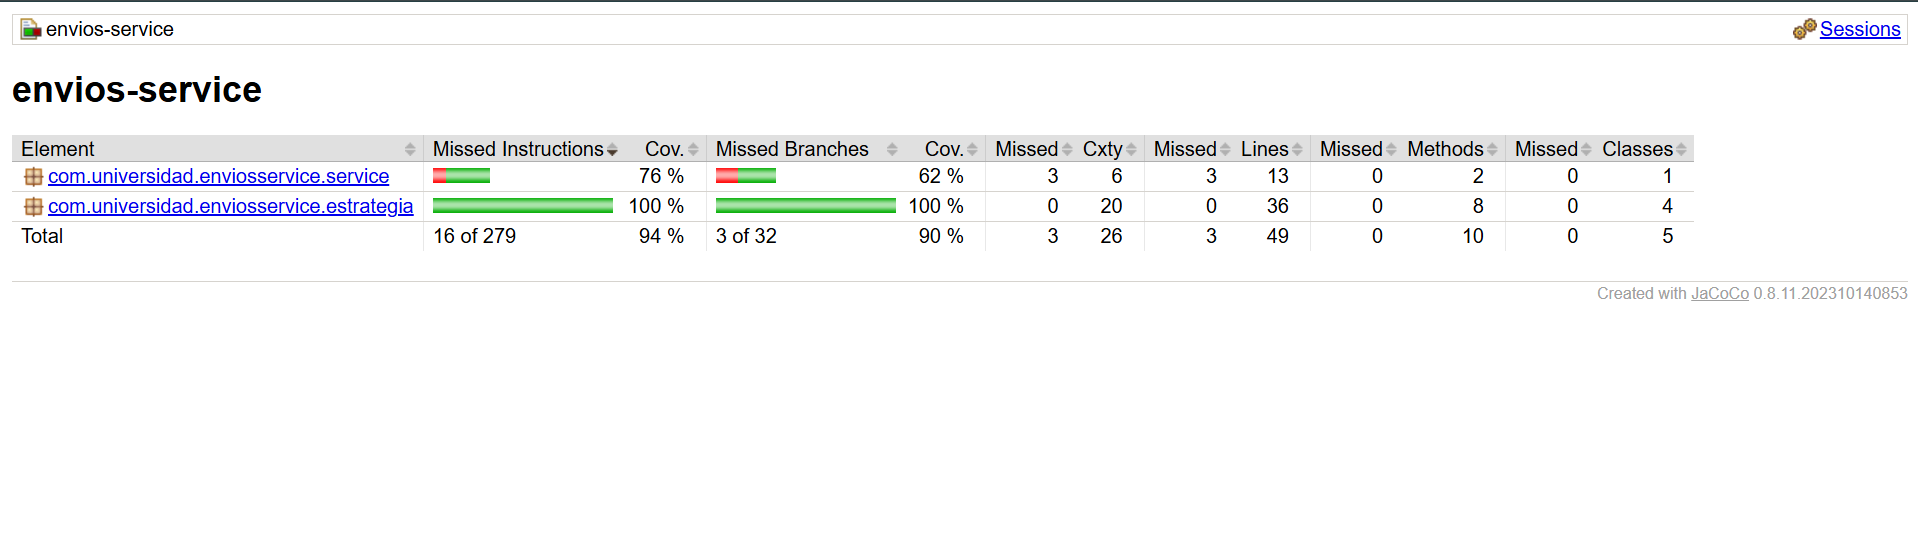
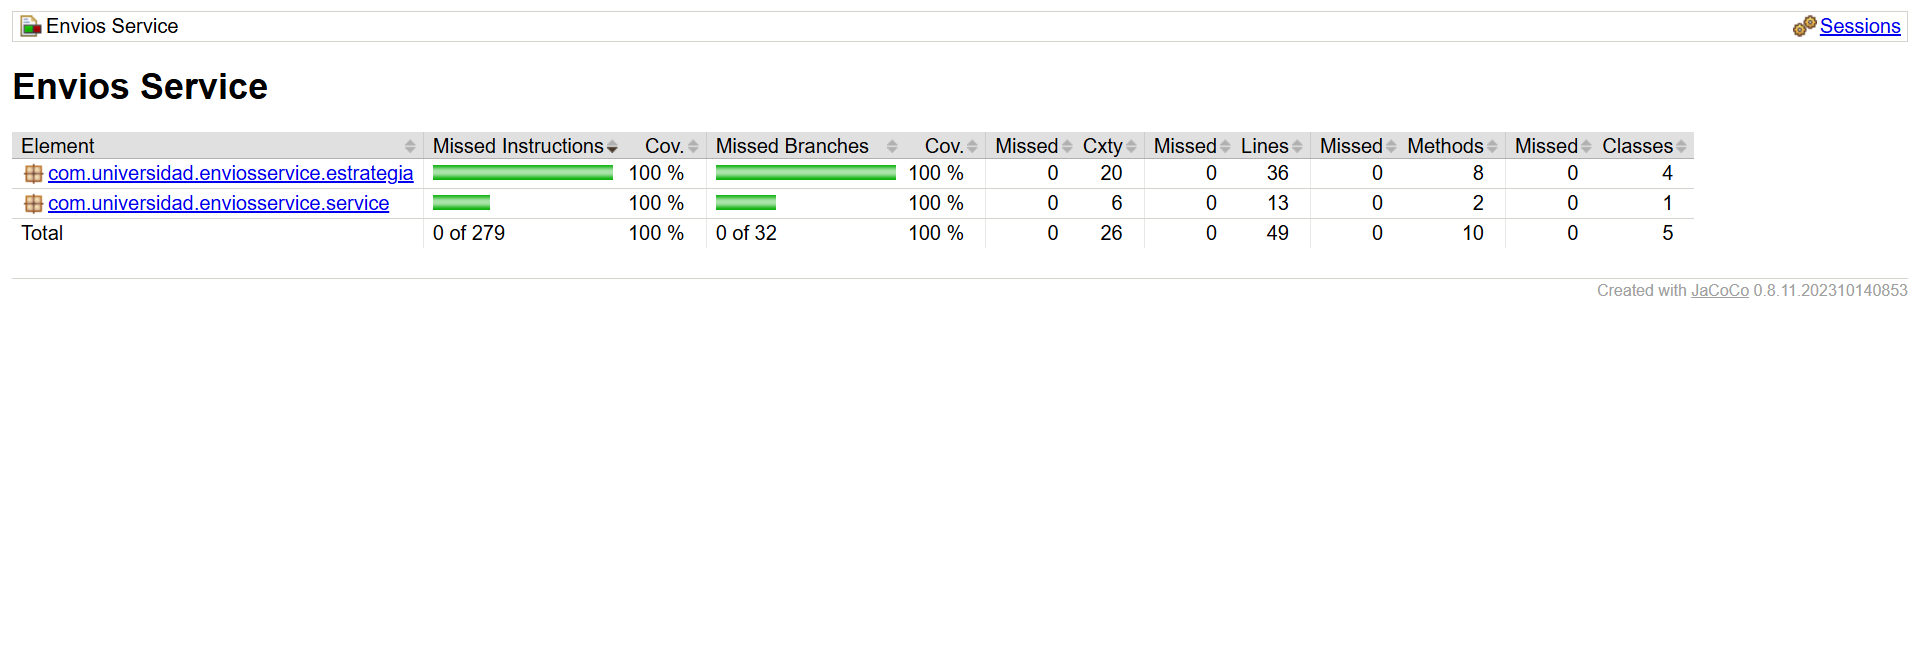
docs: version final del README con comparacion antes-despues y evidencias de quality gate

Changed region(s): [[0.0, 0.0, 1.0, 0.4562], [0.8306, 0.4866, 1.0, 0.5474], [0.8613, 0.3345, 0.8921, 0.3649]]

diff --git a/README.md b/README.md
@@ -1,71 +1,221 @@
 # Envios Service — Diagnóstico y Mejora Guiada por Métricas
 
+Post-contenido de la Unidad 10 (Patrones de Diseño de Software, UDES): **Métricas de Calidad y SonarQube**.
+El proyecto `envios-service` calcula el costo de un envío según el método de transporte, el peso, la distancia, la fragilidad del paquete y el tipo de cliente. En la **Parte 1** se diagnostica con métricas reales (SonarQube + JaCoCo) el método `ServicioCalculoEnvio.calcularCosto()`, y en la **Parte 2** se refactoriza con el patrón **Strategy**, se amplía la suite de pruebas, se configura el Quality Gate "Estándar Laboratorio" y se repite el análisis para comparar el antes y el después.
+
+## Estructura del proyecto
+
+```
+diaz-post1-u10/
+├── pom.xml                         ← Java 21, JUnit 5, JaCoCo 0.8.11, sonar-maven-plugin
+├── sonar-project.properties        ← configuración comentada del análisis
+├── docs/                           ← capturas de SonarQube y JaCoCo (antes / después)
+└── src/
+    ├── main/java/com/universidad/enviosservice/
+    │   ├── service/
+    │   │   └── ServicioCalculoEnvio.java          ← orquestador (CC 20 → 5)
+    │   └── estrategia/
+    │       ├── EstrategiaEnvio.java               ← interfaz común
+    │       ├── EnvioEstandarStrategy.java
+    │       ├── EnvioExpressStrategy.java
+    │       ├── EnvioOvernightStrategy.java
+    │       └── EnvioInternacionalStrategy.java
+    └── test/java/com/universidad/enviosservice/
+        ├── service/ServicioCalculoEnvioTest.java
+        └── estrategia/  (una clase de prueba por estrategia)
+```
+
+## Cómo ejecutar
+
+```bash
+# 1. SonarQube local
+docker run -d --name sonarqube -p 9000:9000 -e SONAR_ES_BOOTSTRAP_CHECKS_DISABLE=true sonarqube:community
+
+# 2. Compilar, probar y generar el reporte JaCoCo (target/site/jacoco/index.html y jacoco.xml)
+mvn clean verify
+
+# 3. Análisis estático
+mvn sonar:sonar -Dsonar.token=TU_TOKEN
+```
+
+---
+
+# Parte 1 — Diagnóstico con métricas reales
+
 ## Entorno de análisis
-Se seleccionó SonarQube Community Edition ejecutado localmente mediante un contenedor Docker. Esta decisión se fundamenta en:
-- **Independencia y soberanía del entorno:** Autonomía operativa sin depender de conectividad a internet ni de restricciones de planes en la nube.
-- **Control total de configuración y privacidad:** Capacidad para configurar Quality Profiles, Quality Gates y reglas estáticas localmente sin exponer el código fuente ni reportes en servidores externos.
+SonarQube Community Edition ejecutado **localmente con Docker** (`http://localhost:9000`), proyecto `envios-service` con project key `com.universidad:envios-service`. La justificación está en la Decisión de diseño 1.
 
-## Decisiones de diseño
+## Estado inicial del análisis
 
-### 1. Entorno de análisis
-Justificada en la sección superior bajo los criterios de independencia operativa y gobierno local de reglas de inspección estática.
+| Métrica | Valor real observado |
+|---|---|
+| Complejidad ciclomática de `calcularCosto()` | **20** |
+| Cobertura de líneas de `ServicioCalculoEnvio` | **24%** (10 de 42 líneas) |
+| Cobertura de ramas de `ServicioCalculoEnvio` | **18%** (7 de 38 ramas) |
+| Code Smells reportados | **0** |
 
-### 2. Exclusiones del análisis
-En esta fase se decidió no configurar exclusiones en `sonar.exclusions`. El proyecto consta exclusivamente de lógica de negocio pura y sus respectivas pruebas unitarias. Al no existir clases de configuración, DTOs sin lógica ni métodos de arranque (`Main`), cualquier exclusión ocultaría código de dominio relevante y distorsionaría artificialmente el cálculo de cobertura real.
+> **Cómo se lee el JaCoCo inicial:** la columna *Cxty* del paquete `service` muestra **21**, que corresponde a CC = 20 de `calcularCosto()` + 1 del constructor por defecto que el compilador genera para la clase. La cobertura de 18% sale de 7 ramas cubiertas sobre 38.
 
-### 3. Métrica usada como señal principal
-Se seleccionó la **Complejidad Ciclomática (Cyclomatic Complexity)** como señal principal para identificar la deuda técnica a intervenir. Mientras que la cobertura (18% en ramas) indica qué partes del código no han sido ejecutadas y la complejidad cognitiva mide el esfuerzo de comprensión para un humano, la complejidad ciclomática mide matemáticamente el número de caminos linealmente independientes a través del grafo de flujo de control ($CC = 20$). Esta métrica es la causante raíz de la baja cobertura: un método con $CC = 20$ exige como mínimo 20 casos de prueba independientes para cubrir todas sus ramas. Por tanto, la refactorización atacó la raíz estructural (reducir los puntos de decisión) y no solo añadir pruebas sobre un método monolítico.
+## Interpretación
 
-### 4. Selección del patrón de diseño para la refactorización
-Se evaluaron tres patrones de diseño para mitigar la alta complejidad ciclomática causada por las cadenas de condicionales:
-1. **Descarte de State:** El servicio de cálculo no mantiene estados internos entre invocaciones sucesivas ni define transiciones de ciclo de vida que alteren su comportamiento futuro. Cada cálculo es idempotente y sin estado (*stateless*).
-2. **Descarte de Chain of Responsibility:** No existe una secuencia encadenada de múltiples manejadores que deban evaluar la petición progresivamente o donde el orden de precedencia sea determinante. Un envío no es procesado por múltiples etapas secuenciales de transporte.
-3. **Selección de Strategy:** El problema consiste puntualmente en la selección de un algoritmo concreto de tarificación a partir de un valor discreto e invariable en la petición (`metodoEnvio`). Cada estrategia (`EnvioEstandarStrategy`, `EnvioExpressStrategy`, `EnvioOvernightStrategy`, `EnvioInternacionalStrategy`) encapsula exclusivamente su fórmula de cálculo por peso y recargos por distancia, reduciendo drásticamente la complejidad ciclomática del método original de 20 a 5.
+El método `ServicioCalculoEnvio.calcularCosto()` concentra toda la complejidad del proyecto. Su CC se obtiene con la fórmula práctica de la Sección 3.1 de la guía (CC = 1 + puntos de decisión):
 
-**Justificación de responsabilidades:**
-- **En las Estrategias:** Se encapsuló la lógica variante (fórmulas de tramos de peso, distancias máximas y recargos propios de cada tipo de transporte).
-- **En el Orquestador (`ServicioCalculoEnvio`):** Se mantuvieron deliberadamente las reglas de negocio transversales (recargo por paquete frágil y descuentos según el tipo de cliente). Trasladar estas reglas a cada estrategia habría generado duplicación innecesaria de código (violando el principio DRY).
+| Origen de los puntos de decisión | Puntos |
+|---|---|
+| Base | 1 |
+| Cadena `if / else if` sobre `metodoEnvio` (ESTANDAR, EXPRESS, OVERNIGHT, INTERNACIONAL) | 4 |
+| ESTANDAR: 2 tramos de peso + recargo > 500 km | 3 |
+| EXPRESS: 2 tramos de peso + recargo > 500 km | 3 |
+| OVERNIGHT: restricción > 300 km + 2 tramos de peso | 3 |
+| INTERNACIONAL: 2 tramos de peso + recargo > 5000 km | 3 |
+| Fragilidad (`esFragil`) | 1 |
+| Tipo de cliente (PREMIUM, CORPORATIVO) | 2 |
+| **Total** | **20** |
 
-### 5. Criterio de pruebas agregadas para incremento de cobertura
-El diseño de la nueva suite de pruebas no buscó inflar el porcentaje de cobertura con ejecuciones triviales (como llamadas sin assertions), sino ejercitar de manera exhaustiva todas las ramas que el reporte inicial de JaCoCo dejó al descubierto (31 de 38 ramas):
-1. **Casos de equivalencia y frontera por tramos de peso:** Pruebas parametrizadas (`@ParameterizedTest` con `@CsvSource`) en cada estrategia para los límites: $\le 5$ kg, $5 < \text{peso} \le 20$ kg, y $> 20$ kg.
-2. **Condiciones de distancia extrema:** Se agregaron pruebas para recargos en distancias superiores a 500 km (Estándar y Express), 5000 km (Internacional) y la excepción de bloqueo de distancia $> 300$ km en Overnight.
-3. **Reglas transversales en el servicio:** Se cubrió el recargo del 15% por fragilidad, el descuento del 15% a clientes corporativos y el rechazo con `IllegalArgumentException` ante métodos no soportados.
+Con CC = 20 el método queda en el rango "Alta" de la Tabla 3.2 de la guía. Según el reporte HTML de JaCoCo, **31 de 38 ramas** quedaron sin ejercitar, porque la suite inicial solo recorre dos caminos (ESTANDAR, peso ≤ 5 kg, ≤ 500 km, cliente REGULAR y PREMIUM, no frágil):
+
+- Las ramas de peso medio (5 a 20 kg) y alto (> 20 kg) de todos los métodos.
+- Los métodos `EXPRESS`, `OVERNIGHT` e `INTERNACIONAL` completos.
+- Los recargos por distancia (> 500 km en ESTANDAR y EXPRESS, > 5000 km en INTERNACIONAL).
+- Las dos excepciones: distancia > 300 km en OVERNIGHT y método no soportado.
+- El recargo por paquete frágil y el descuento del cliente CORPORATIVO.
+
+La complejidad ciclomática alta y la cobertura baja **coinciden en el mismo método** y no por casualidad: CC = 20 significa que hay al menos 20 caminos independientes que una suite completa debería recorrer, y la suite inicial recorre solo dos de ellos.
+
+## Capturas del análisis inicial
+![Dashboard SonarQube inicial](docs/sonar-dashboard-inicial.png)
+![Reporte JaCoCo inicial](docs/jacoco-inicial.png)
+
+---
+
+# Decisiones de diseño
+
+### 1. Entorno de análisis: SonarQube local con Docker
+Se eligió SonarQube Community Edition en Docker en lugar de SonarCloud, con dos criterios de la tabla del Paso 1:
+- **No depende de conectividad ni de los límites de un plan gratuito:** el análisis se puede repetir las veces que haga falta durante las dos partes del laboratorio, sin cuotas ni dependencia de un servicio externo.
+- **Control total de la configuración:** el laboratorio exige crear un Quality Profile y un Quality Gate propios ("Estándar Laboratorio"). En una instancia local se administran directamente como administrador y no hay que exponer públicamente los reportes del proyecto, como sí ocurre con los proyectos públicos en SonarCloud.
+
+**Costo asumido:** el contenedor consume recursos de la máquina local y debe permanecer en ejecución durante todo el laboratorio. Además, la instancia usa la base de datos embebida (H2), que solo es apta para evaluación; para este laboratorio es suficiente porque no se necesita escalar ni migrar la instancia.
+
+### 2. Exclusiones del análisis: ninguna
+No se configuró `sonar.exclusions` (queda documentado como comentario en `sonar-project.properties`). El proyecto no tiene clase de arranque (`Main`), configuración, DTOs ni código generado: todas las clases de `src/main/java` contienen lógica de negocio que debe medirse. Excluir cualquiera de ellas inflaría artificialmente la cobertura y ocultaría justamente el código que se quiere diagnosticar. Las pruebas no se excluyen porque ya se declaran aparte con `sonar.tests`, y SonarQube no las cuenta en la cobertura ni en la duplicación.
+
+### 3. Métrica usada como señal principal: Complejidad Ciclomática
+SonarQube expone tres señales independientes: Cyclomatic Complexity, Cognitive Complexity y Coverage. Se eligió la **Complejidad Ciclomática** porque:
+- **Es la causa, no el síntoma.** La cobertura (18% en ramas) dice qué no se ejecutó, pero no por qué es difícil probarlo. CC = 20 explica la causa: el método tiene al menos 20 caminos independientes, así que para cubrirlo completo harían falta como mínimo 20 casos de prueba sobre un solo método.
+- **Es la métrica que el patrón debe reducir y que el Quality Profile controla por método** (regla S1541). Permite verificar el antes y el después con el mismo criterio objetivo.
+- **La Complejidad Cognitiva** señala el mismo método, pero mide el esfuerzo de lectura humana y penaliza el anidamiento. Aquí el problema no es solo de legibilidad: es la cantidad de caminos que hay que probar. Por eso se usó como señal secundaria.
+
+### 4. Patrón elegido: Strategy
+Se analizó la naturaleza de los condicionales de `calcularCosto()` con la tabla del Paso 7:
+
+| Candidato | Pregunta clave | Respuesta en `calcularCosto()` | Veredicto |
+|---|---|---|---|
+| **State** | ¿El objeto recuerda un estado entre llamadas que condicione las transiciones futuras? | No. `ServicioCalculoEnvio` no tiene estado mutable: cada llamada depende solo de sus parámetros y no hay transiciones entre estados. | Descartado |
+| **Chain of Responsibility** | ¿Hay una secuencia de manejadores donde el orden importa y más de uno podría aplicar? | No. Las ramas de `metodoEnvio` son **mutuamente excluyentes**: el valor de entrada selecciona exactamente una, una sola vez, y ninguna "pasa" la solicitud a la siguiente. | Descartado |
+| **Strategy** | ¿Cada rama calcula el mismo tipo de resultado con una fórmula propia, elegida por un valor discreto? | Sí. Las 4 ramas devuelven un costo (`double`) a partir de `pesoKg` y `distanciaKm`, cada una con sus tarifas y recargos, y la rama se elige por el valor discreto de `metodoEnvio`. | **Elegido** |
+
+**Qué se movió y qué se quedó (y por qué):**
+- **A las estrategias** (`com.universidad.enviosservice.estrategia`) pasó la lógica que *varía* según el método de envío: tarifas por tramo de peso, recargos por distancia, el factor 1.3 de EXPRESS y la restricción de 300 km de OVERNIGHT.
+- **En el orquestador** (`ServicioCalculoEnvio`) se quedaron deliberadamente las **reglas transversales**: el recargo del 15% por fragilidad y los descuentos por tipo de cliente. Se aplican igual a los cuatro métodos de envío, así que copiarlas dentro de cada estrategia habría duplicado esa lógica cuatro veces (violando DRY).
+- La cadena `if / else if` sobre `metodoEnvio` se reemplazó por un **mapa inmutable** (`Map.of`) de estrategias, y el caso no soportado se resolvió con una única comprobación de `null`.
+
+```java
+public double calcularCosto(String metodoEnvio, double pesoKg, double distanciaKm,
+                            String tipoCliente, boolean esFragil) {
+    EstrategiaEnvio estrategia = estrategias.get(metodoEnvio);           // +1 (null)
+    if (estrategia == null) {
+        throw new IllegalArgumentException("Metodo de envio no soportado: " + metodoEnvio);
+    }
+    double costo = estrategia.calcular(pesoKg, distanciaKm);
+    if (esFragil) { costo = costo + costo * 0.15; }                      // +1
+    if (tipoCliente.equals("PREMIUM")) { costo = costo * 0.9; }          // +1
+    else if (tipoCliente.equals("CORPORATIVO")) { costo = costo * 0.85; } // +1
+    return costo;
+}
+```
+
+**Resultado:** `calcularCosto()` queda con **CC = 5** (1 base + estrategia nula + fragilidad + 2 tramos de cliente), en el rango "Moderada" de la Tabla 3.2, y cada estrategia queda entre 3 y 4. La reducción no llega a CC = 1 porque las reglas transversales se conservan a propósito en el orquestador.
+
+### 5. Criterio de pruebas agregadas
+Cada prueba nueva corresponde a una rama que el reporte JaCoCo de la Parte 1 marcó como no cubierta (31 de 38), y todas verifican un valor distinto calculado a mano (no hay pruebas sin aserción ni casos repetidos). Se usaron `@ParameterizedTest` con `@CsvSource` para los tramos de peso de cada estrategia.
+
+| Rama sin cubrir en la Parte 1 | Prueba que la ejercita |
+|---|---|
+| Tramos de peso 5–20 kg y > 20 kg de ESTANDAR, EXPRESS, OVERNIGHT e INTERNACIONAL | `calculaCostoPorTramosDePeso` (parametrizada) en cada `Envio*StrategyTest` |
+| Valores frontera de peso (exactamente 5 kg y 20 kg) | Filas `5.0` y `20.0` de cada `@CsvSource` |
+| Recargo > 500 km (ESTANDAR, EXPRESS) y > 5000 km (INTERNACIONAL) | `aplicaRecargoDistanciaMayorA500Km`, `aplicaRecargoDistanciaMayorA5000Km` |
+| Frontera de distancia (exactamente 500 / 5000 km, sin recargo) | `noAplicaRecargoConDistanciaExactaDe500Km`, `noAplicaRecargoConDistanciaExactaDe5000Km` |
+| Excepción OVERNIGHT > 300 km y frontera de 300 km permitida | `rechazaDistanciasMayoresA300Km`, `aceptaDistanciaExactaDe300Km` |
+| Métodos EXPRESS, OVERNIGHT e INTERNACIONAL vía el orquestador | `delegaEnLaEstrategiaCorrespondienteAlMetodo` (verifica el cableado del mapa) |
+| Recargo por paquete frágil | `aplicaRecargoPorPaqueteFragil` |
+| Descuento cliente CORPORATIVO | `aplicaDescuentoClienteCorporativo` |
+| Orden de las reglas transversales (fragilidad antes del descuento) | `aplicaFragilidadAntesQueDescuentoDeCliente` |
+| Excepción por método no soportado | `rechazaMetodoDeEnvioNoSoportado` (verifica también el mensaje) |
+
+> **Nota sobre un valor de la guía:** en el ejemplo de `EnvioOvernightStrategyTest`, la guía propone `25.0, 100.0, 250.0`. Con la fórmula del propio método, el valor correcto es 100 × 2.0 + 20 + 15 × 2.5 + 5 × 3.0 = **272.5**. Con 250.0 la prueba falla, así que se usó el valor calculado a partir del código.
 
 ### 6. Realismo de los umbrales del Quality Gate
-La configuración de los umbrales para el Quality Gate y el Quality Profile "Estándar Laboratorio" se fundamenta en los estándares de mantenibilidad y cobertura de la industria (Tabla 3.2 y Sección 2.3 de la guía de la unidad):
-1. **Límite de Complejidad Ciclomática ($CC \le 10$) por método (Regla S1541):** Se estableció un umbral de 10 puntos de decisión por método por ser el límite superior del rango clasificado como "Moderada". Métodos con $CC \le 10$ son comprensibles, testeables sin proliferación desmedida de casos de prueba y estables ante mantenimiento. Exigir un umbral inferior (como $CC \le 5$) forzaría una sobre-fragmentación artificial del código en métodos de una sola línea, mientras que tolerar $CC > 10$ abriría la puerta a métodos monolíticos frágiles.
-2. **Umbral de Cobertura ($Coverage \ge 70\%$):** Exigir un 100% de cobertura es una práctica contraproducente que genera incentivos perversos (desarrolladores redactando tests triviales sin aserciones útiles solo para cumplir una cuota numérica). Un umbral del 70% garantiza que la totalidad de la lógica de negocio nuclear y sus caminos críticos estén exhaustivamente verificados, otorgando a su vez flexibilidad ante código boilerplate o de infraestructura sin comprometer la confiabilidad.
-3. **Líneas duplicadas ($\le 5\%$):** Previene la propagación de deuda técnica por "copiar y pegar" bloques algorítmicos entre clases de transporte.
+- **CC ≤ 10 por método (regla S1541, Threshold = 10):** según la Tabla 3.2 de la guía, 10 es el techo del rango "Moderada" y es el valor por defecto del parámetro de la regla. Es exigente sin obligar a reescribir métodos que aún son razonables de mantener. Un umbral de 5 marcaría como problema métodos con validaciones simples (el propio orquestador tiene CC = 5 y sus 4 decisiones son reglas de negocio legítimas). Un umbral de 20 habría aceptado el método original sin señalarlo, que es justo lo que se quiere detectar.
+- **Cobertura ≥ 70%:** 100% es poco realista y, como advierte la Sección 2.3 de la guía, genera incentivos perversos: pruebas triviales escritas solo para llenar el número. El 70% (el mismo umbral LINE que la guía usa como ejemplo en JaCoCo) exige probar la lógica de negocio y deja margen para código de infraestructura sin obligar a escribir pruebas vacías.
+- **Duplicated Lines (%) ≤ 5%:** limita la deuda por "copiar y pegar". Como se explica más abajo, este es el umbral que el proyecto no cumple, y ese resultado se documenta en lugar de ocultarse.
+
+---
+
+# Parte 2 — Refactorización guiada por métricas
+
+## Configuración en SonarQube
+
+**Quality Profile "Estándar Laboratorio"** (Java): copia de "Sonar way" con la regla **S1541** *"Cyclomatic Complexity of methods should not exceed the authorized threshold"* activada con **Threshold = 10**, y asignado al proyecto en *Project Settings → Quality Profile*.
+
+**Quality Gate "Estándar Laboratorio"**, asignado al proyecto en *Project Settings → Quality Gate*:
+
+| Condición | Umbral | Propósito |
+|---|---|---|
+| Coverage | is less than **70%** | Cobertura mínima realista (Decisión 6) |
+| New Code Smells | is greater than **0** | Bloquea métodos nuevos con CC > 10 (vía S1541) u otros code smells |
+| Duplicated Lines (%) | is greater than **5%** | Máximo 5% de duplicación |
+
+![Quality Profile con S1541 = 10](docs/quality-profile.png)
+![Quality Gate Estándar Laboratorio](docs/quality-gate.png)
 
 ## Comparación antes / después
 
-| Métrica | Antes (Parte 1) | Después (Parte 2) |
-|---|---|---|
-| Complejidad ciclomática de `calcularCosto()` | 20 | 5 |
-| Cobertura de ramas de la lógica de envío | 18% | 90% |
-| Cobertura de líneas global | 24% | 94% |
-| Code Smells nuevos | 0 | 0 |
-| Quality Gate | — | Failed (Condición Duplicated Lines 7.95% > 5%) |
+| Métrica | Antes (Parte 1) | Después (Parte 2) | Variación |
+|---|---|---|---|
+| Complejidad ciclomática de `calcularCosto()` | 20 | 5 | **−75%** (meta: ≥ 50%) |
+| CC máxima por método en todo el proyecto | 20 | 5 (orquestador) / 3–4 (estrategias) | Todos ≤ 10 (S1541) |
+| Cobertura de ramas de la lógica de envío | 18% (7/38) | 100% (32/32) | **+82 puntos** (meta: ≥ 15) |
+| Cobertura de líneas | 24% (10/42) | 100% (49/49) | +76 puntos |
+| Code Smells | 0  | 0 | — |
+| Duplicated Lines (%) | 0%  | 7.95% | — |
+| Quality Gate | — | **Failed** (Duplicated Lines 7.95% > 5%)  | — |
 
-> **Nota sobre el resultado del Quality Gate:** El Quality Gate reportó *Failed* debido a que la métrica de líneas duplicadas alcanzó un 7.95% frente al umbral estricto del 5%. Esta duplicación es estructuralmente esperada e inherente a la naturaleza del dominio, dado que las cuatro estrategias de transporte evalúan internamente los mismos tramos de escala de peso con estructuras algorítmicas idénticas pero con coeficientes tarifarios específicos.
+> **Cómo se lee el JaCoCo final:** *Cxty* = 6 en `service` (5 de `calcularCosto()` + 1 del constructor) y 20 en `estrategia` (4 clases × [CC 4 de `calcular()` + 1 del constructor]). La cobertura de ramas ahora se reparte entre el orquestador (8 ramas) y las estrategias (24 ramas).
+
+## Resultado del Quality Gate: Failed (y por qué)
+
+El Quality Gate **falla únicamente por la condición de duplicación**: *Duplicated Lines (%)* = 7.95%, por encima del umbral de 5%. Coverage y New Code Smells se cumplen. 
+
+**Causa:** las estrategias `EnvioEstandarStrategy`, `EnvioExpressStrategy` y `EnvioInternacionalStrategy` repiten la misma estructura de tramos de peso (`≤ 5`, `≤ 20`, `> 20`) y de recargo por distancia, y solo cambian los coeficientes. El detector de duplicados de SonarQube compara la secuencia de tokens, así que reconoce esos bloques como duplicados aunque las tarifas sean distintas.
+
+**Interpretación:** la duplicación **sí es evitable**. Por ejemplo, con un *Template Method* (una clase abstracta `EstrategiaPorTramosDePeso` que implemente el algoritmo de tramos y deje que cada subclase aporte sus tarifas) o con una única estrategia parametrizada por un objeto de tarifas. No se aplicó en esta entrega por dos razones: el laboratorio pide aislar en cada estrategia la fórmula que antes vivía en su rama (Paso 7), y una jerarquía adicional reduciría la duplicación a costa de acoplar las cuatro estrategias a una misma estructura de cálculo, que podría dejar de ser válida si un método de envío cambia su esquema tarifario. El Quality Gate cumple su función: señala una deuda real y medible que queda identificada como la siguiente mejora del proyecto.
 
 ## Capturas
 
 ### Análisis inicial (Parte 1)
-![dashboard inicial sonar](docs/sonar-dashboard-inicial.png)
+![Dashboard inicial](docs/sonar-dashboard-inicial.png)
+![JaCoCo inicial](docs/jacoco-inicial.png)
 
-![jacoco inicial](docs/jacoco-inicial.png)
-
-### Análisis final tras refactorización (Parte 2)
-![sonar dashboard final](docs/sonar-dashboard-final.png)
-
-![jacoco final](docs/jacoco-final.png)
+### Análisis final tras la refactorización (Parte 2)
+![Dashboard final](docs/sonar-dashboard-final.png)
+![JaCoCo final](docs/jacoco-final.png)
 
 ## Herramientas utilizadas
-- Java 21, Apache Maven
-- SonarQube Community Edition (Docker), JaCoCo
+- Java 21, Apache Maven 3.9+
+- JUnit 5 (Jupiter, pruebas parametrizadas)
+- SonarQube Community Edition (Docker), JaCoCo 0.8.11
 - Git, GitHub
 
 ## Conclusiones
-La inspección estática guiada por métricas reales permitió diagnosticar objetivamente que la baja cobertura inicial era consecuencia directa de una excesiva complejidad ciclomática concentrada en un método monolítico. La aplicación del patrón Strategy desacopló las fórmulas de transporte, reduciendo la complejidad en un 75% y facilitando la creación de pruebas unitarias que elevaron la cobertura de ramas del 18% al 90%. Asimismo, la configuración de Quality Gates demostró cómo los umbrales automatizados protegen la mantenibilidad del código en ciclos de entrega continua.
+Las métricas reales permitieron pasar de una intuición ("el método es largo") a un diagnóstico preciso: CC = 20 y 18% de cobertura de ramas señalaban el mismo método, y la baja cobertura era una consecuencia directa de la cantidad de caminos independientes. Analizar la naturaleza de los condicionales antes de escribir código fue lo que justificó Strategy frente a State y Chain of Responsibility, y permitió bajar la complejidad de `calcularCosto()` un 75% sin duplicar las reglas transversales. Con la lógica separada en unidades pequeñas, las pruebas se escribieron rama por rama contra el reporte de JaCoCo, incluidos los valores frontera, y la cobertura subió con pruebas que verifican resultados en lugar de inflar el número. Por último, el Quality Gate en *Failed* mostró que una refactorización que mejora una métrica puede empeorar otra (la duplicación), y que el valor de un umbral está en hacer visible esa deuda para decidir conscientemente cómo pagarla.
